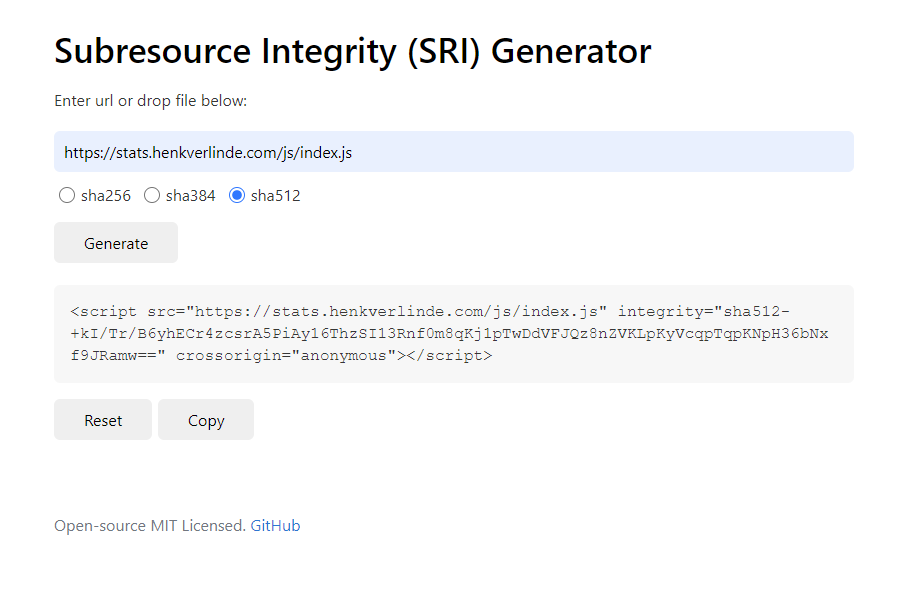
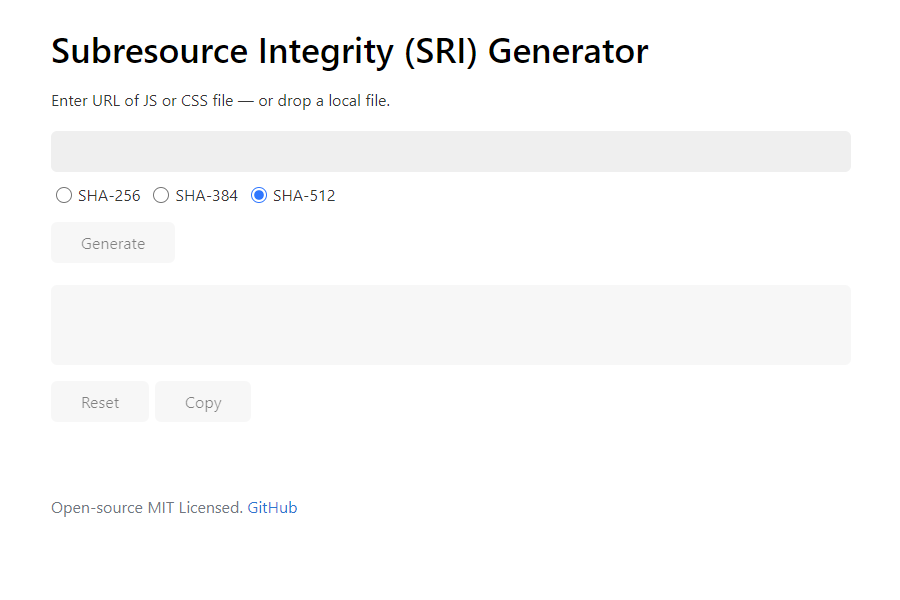
ux: update for captilization main terms

diff --git a/src/App.js b/src/App.js
@@ -110,16 +110,16 @@ class App extends Component {
           <h1>Subresource Integrity (SRI) Generator</h1>
           <form onSubmit={this.onSubmit}>
             <div className="field-group">
-              <p><label htmlFor="input">Enter url or drop file below:</label></p>
+              <p><label htmlFor="input">Enter URL of JS or CSS file — or drop a local file.</label></p>
               <input id="input" type="text" value={url} onChange={this.onUrlChange} />
             </div>
             <div className="field-group">
               <input id="sha256" type="radio" name="strenght" value={sha256} checked={sha256} onChange={this.onHashTypeChange} />
-              <label htmlFor="sha256">sha256</label>
+              <label htmlFor="sha256">SHA-256</label>
               <input id="sha384" type="radio" name="strenght" value={sha384} checked={sha384} onChange={this.onHashTypeChange} />
-              <label htmlFor="sha384">sha384</label>
+              <label htmlFor="sha384">SHA-384</label>
               <input id="sha512" type="radio" name="strenght" value={sha512} checked={sha512} onChange={this.onHashTypeChange} />
-              <label htmlFor="sha512">sha512</label>
+              <label htmlFor="sha512">SHA-512</label>
             </div>
             <button type="submit" disabled={!isValid || submitting}>Generate</button>
           </form>
